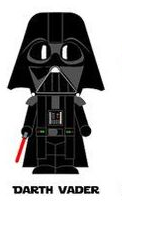
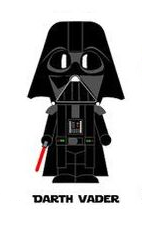
align card images

diff --git a/js/app.js b/js/app.js
@@ -128,7 +128,7 @@ function toggleLightDark() {
 
 function timer() {
   clearInterval(count);
-  timeLeft = 60 - winCount * 5;
+  timeLeft = 120 - winCount * 5;
 
   count = setInterval(function () {
     countDownEl.textContent = timeLeft + " seconds remaining.";

diff --git a/css/style.css b/css/style.css
@@ -77,3 +77,6 @@ body {
   transform: rotateY(180deg);
 }
 
+#winCount {
+  text-align: center;
+}
